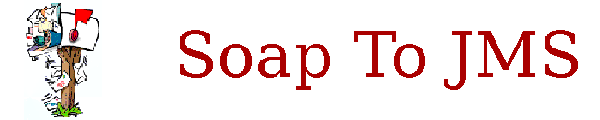
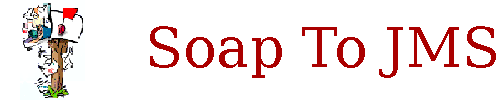
site improvements

Changed region(s): [[0.57, 0.24, 1.0, 0.78], [0.03, 0.0, 0.18, 0.99], [0.3, 0.24, 0.57, 0.78]]

diff --git a/src/site/resources/css/site.css b/src/site/resources/css/site.css
@@ -35,6 +35,10 @@ img.external-link {
    vertical-align: baseline;
 }
 
+img.small {
+   width: 50%;
+}
+
 menu
 {
     padding-top: 20px;
